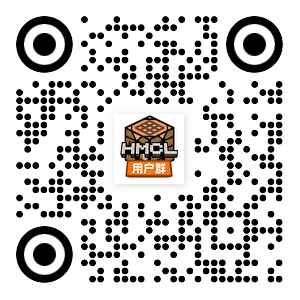
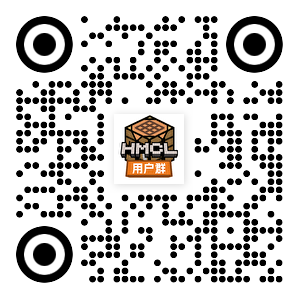
添加用户三群 (#105)
* 添加用户三群

* 添加群规

* update

diff --git a/_docs/groups.md b/_docs/groups.md
@@ -15,7 +15,8 @@ toc: true
 1. 禁止谈论政治相关、色情、违法犯罪、金钱往来等敏感内容，禁止辱骂、造谣诽谤、恶俗等行为，禁止讨论精神疾病、LGBT 等话题，请尊重每一个人；
 2. 禁止刷屏、倒垃圾、宣泄个人情绪、引战、刻意误导等破坏讨论环境的行为；
 3. 禁止发布与 Minecraft 无关的广告，可以适当宣传服务器、整合包等相关内容，同一内容每人每周最多宣传一次；
-4. 用户群交流主题为 Minecraft，请不要过多讨论其他游戏内容。
+4. 禁止讨论多人游戏中的作弊工具；
+5. 用户群交流主题为 Minecraft，请不要过多讨论其他游戏内容。
 
 ## 用户群
 
@@ -24,7 +25,8 @@ toc: true
 以下为闲聊群，欢迎所有用户加入（请不要重复添加）：
 
 - [HMCL 用户群 ① (633640264)](https://qm.qq.com/q/fvJueufsvC)（已满）
-- [HMCL 用户群 ② (203232161)](https://qm.qq.com/q/N7hgdNYfy)
+- [HMCL 用户群 ② (203232161)](https://qm.qq.com/q/N7hgdNYfy)（已满）
+- [HMCL 用户群 ③ (201034984)](https://qm.qq.com/q/7sbMrFm9CE)
 
 ## 报错崩溃交流群
 
@@ -33,6 +35,8 @@ toc: true
 如果你遇到了游戏非正常退出问题，欢迎加入报错崩溃交流群咨询解决方案：[Minecraft 报错崩溃交流群 (666546887)](https://qm.qq.com/q/nG0Ti1kJri)
 
 **本群仅处理游戏报错崩溃问题，无关话题请前往其他群聊讨论。**
+
+由于加群人数过多，我们会移出问题已解决的用户。如果你在被移出后遇到了新的问题需要求助，你可以再次加群。
 
 ## 灵车交流群
 
